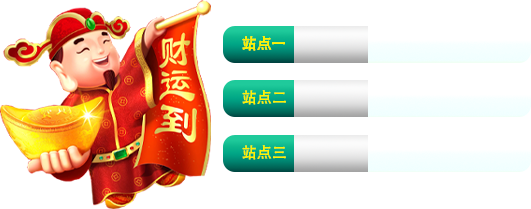
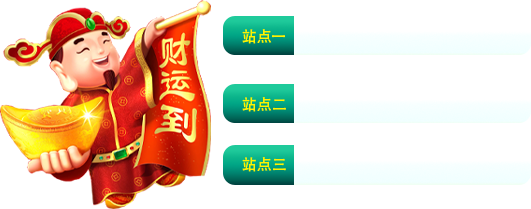
updated

diff --git a/index.html b/index.html
@@ -40,7 +40,7 @@
                 <a href="#"><img src="./assets/Images/Part 2 H5 Button.png"></a> -->
                 <div class="site1">
                     <div class="row">
-                        <div class="speed" id="speed-line1">20ms</div>
+                        <!-- <div class="speed" id="speed-line1">20ms</div> -->
                     </div>
                     <div class="enter">
                         <a href="#" onclick="goH5Url('8JH1.cc')">
@@ -50,7 +50,7 @@
                 </div>
                 <div class="site2">
                     <div class="row">
-                        <div class="speed" id="speed-line1">20ms</div>
+                        <!-- <div class="speed" id="speed-line1">20ms</div> -->
                     </div>
                     <div class="enter">
                         <a href="#" onclick="goH5Url('8JH3.cc')">
@@ -60,7 +60,7 @@
                 </div>
                 <div class="site3">
                     <div class="row">
-                        <div class="speed" id="speed-line1">20ms</div>
+                        <!-- <div class="speed" id="speed-line1">20ms</div> -->
                     </div>
                     <div class="enter">
                         <a href="#" onclick="goH5Url('8JH4.cc')">

diff --git a/assets/css/styles.css b/assets/css/styles.css
@@ -84,7 +84,7 @@ a.downloadButton:hover {
 }
 
 .h5link {
-    padding-top: 110px;
+    padding-top: 40px;
     margin-bottom: -70px;
 }
 
@@ -142,10 +142,10 @@ a.downloadButton:hover {
     display: block;
     text-align: center;
     margin: 0 auto;
-    margin-top: -70px;
+    margin-top: 30px;
 }
 .h5link .h5-btn .site1 {
-    margin-top: 3.1rem;
+    margin-top: 0.6rem;
 }
 .h5link .h5-btn .site1, .h5link .h5-btn .site2, .h5link .h5-btn .site3 {
     width: 100%;
@@ -169,12 +169,12 @@ a.downloadButton:hover {
 .h5link .h5-btn .site1 .enter, .h5link .h5-btn .site3 .enter {
     width: 20%;
     float: right;
-    aspect-ratio: 170/65;
+    aspect-ratio: 230/121;
 }
 .h5link .h5-btn .site2 .enter {
     width: 20%;
     float: right;
-    aspect-ratio: 170/63;
+    aspect-ratio: 230/105;
 }
 
 /* .h5link .h5-btn a:nth-child(2) img {
@@ -383,7 +383,7 @@ a.downloadButton:hover {
         right: 13%;
     }
     .h5link .h5-btn .site1 {
-        margin-top: 2.7rem;
+        margin-top: 0.6rem;
     }
 }
 
